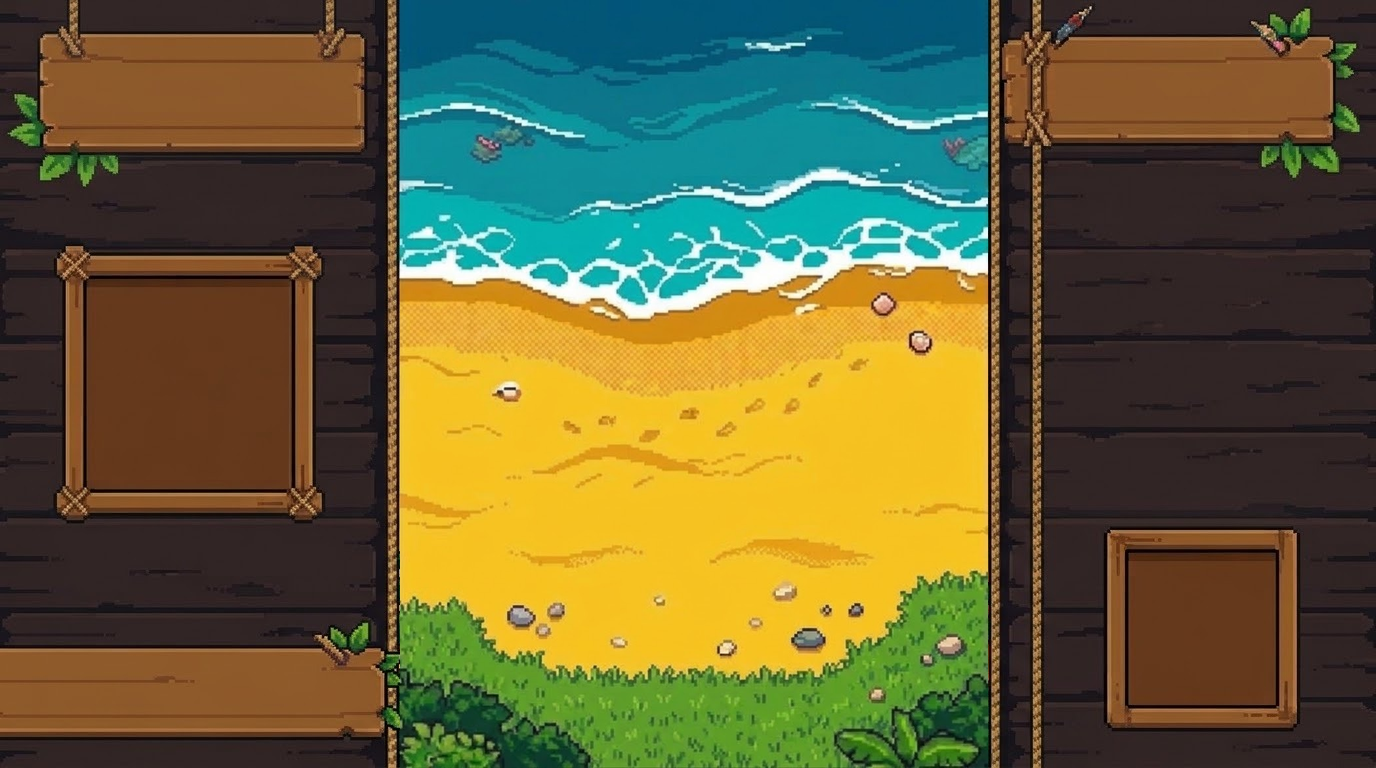
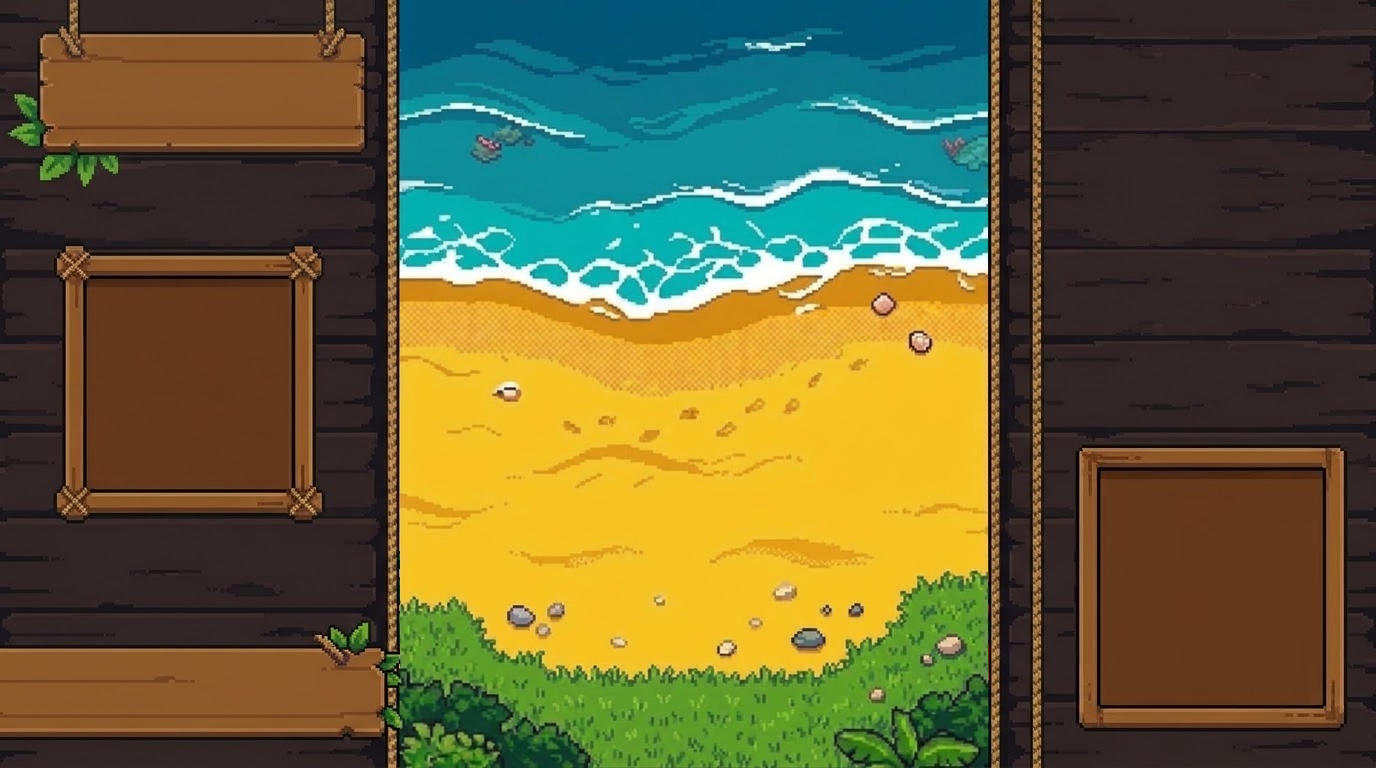
adicionando os upgrades (boosts)

Changed region(s): [[0.7812, 0.5625, 1.0, 0.9688], [0.7188, 0.0, 1.0, 0.25]]

diff --git a/main.c b/main.c
@@ -25,6 +25,19 @@
 #define ROSTO_W 204
 #define ROSTO_H 208
 
+//upgrades (ajuste aqui o balanceamento do jogo)
+#define VEL_MACACO_BASE 5.0f //velocidade inicial do macaco
+#define VEL_MACACO_NIVEL 0.8f //quanto cada nivel do upgrade soma na velocidade do macaco
+#define DARDOS_VEL_NIVEL 2.5f //quanto cada nivel do upgrade soma na velocidade do dardo
+#define DARDOS_ESPACO 22 //distancia (pixels) entre dardos disparados juntos
+#define ABATES_POR_UPGRADE 10 //baloes estourados para ganhar um upgrade
+
+//interior do segundo quadrado (moldura de baixo do painel direito)
+#define UPG_X 1100
+#define UPG_Y 500
+#define UPG_W 225
+#define UPG_H 240
+
 //telas, fiz em enum
 typedef enum {
     TELA_MENU,
@@ -33,6 +46,17 @@ typedef enum {
     TELA_VITORIA,
     TELA_PAUSE
 } Tela;
+
+//tipos de upgrade (UPG_TOTAL = quantidade de tipos, serve de tamanho para os vetores)
+typedef enum {
+    UPG_DARDO,
+    UPG_VEL_DARDO,
+    UPG_VEL_MOV,
+    UPG_TOTAL
+} Upgrade;
+
+static const int NIVEL_MAX[UPG_TOTAL] = { 2, 5, 5 }; //dardo: ate triplo (2 extras); velocidades: ate nivel 5
+static const char *NOME_UPG[UPG_TOTAL] = { "DARDOS", "VEL. TIRO", "VEL. MOVER" };
 
 typedef struct {
     float x, y;
@@ -47,6 +71,54 @@ typedef struct {
     bool atv;
 } Explosao;
 
+//sorteia um upgrade entre os que ainda nao chegaram no nivel maximo
+//devolve -1 se todos ja estao no maximo
+static int SortearUpgrade(const int nivel[UPG_TOTAL]) {
+    int disponiveis[UPG_TOTAL];
+    int n = 0;
+    for (int i = 0; i < UPG_TOTAL; i++) {
+        if (nivel[i] < NIVEL_MAX[i]) disponiveis[n++] = i;
+    }
+    if (n == 0) return -1;
+    return disponiveis[GetRandomValue(0, n - 1)];
+}
+
+//texto do aviso que aparece na tela quando ganha o upgrade
+static const char *TextoUpgrade(int tipo, int nivelNovo) {
+    if (tipo == UPG_DARDO) return (nivelNovo == 1) ? "DARDO DUPLO!" : "DARDO TRIPLO!";
+    if (tipo == UPG_VEL_DARDO) return "DARDO MAIS RAPIDO!";
+    return "MACACO MAIS RAPIDO!";
+}
+
+//desenha o painel de upgrades dentro do segundo quadrado
+static void DesenharPainelUpgrades(const int nivel[UPG_TOTAL], int abates) {
+    int x0 = UPG_X + 8;       //margem interna
+    int larg = UPG_W - 16;    //largura util
+    int y0 = UPG_Y + 6;
+
+    const char *titulo = "UPGRADES";
+    DrawText(titulo, UPG_X + (UPG_W - MeasureText(titulo, 14)) / 2, y0, 14, GOLD);
+    y0 += 22;
+
+    for (int i = 0; i < UPG_TOTAL; i++) {
+        //no dardo mostra a quantidade atual (x1, x2, x3); nos outros, so o nome
+        const char *rotulo = (i == UPG_DARDO) ? TextFormat("DARDOS x%d", 1 + nivel[i]) : NOME_UPG[i];
+        DrawText(rotulo, x0, y0, 14, WHITE);
+
+        //um quadradinho por nivel: dourado = ja ganhou, apagado = falta ganhar
+        for (int k = 0; k < NIVEL_MAX[i]; k++) {
+            Color cor = (k < nivel[i]) ? GOLD : Fade(WHITE, 0.2f);
+            DrawRectangle(x0 + k * 12, y0 + 17, 8, 8, cor);
+        }
+        y0 += 32;
+    }
+
+    //barra de progresso ate o proximo upgrade
+    DrawRectangle(x0, y0 + 4, larg, 10, Fade(BLACK, 0.5f));
+    DrawRectangle(x0, y0 + 4, larg * abates / ABATES_POR_UPGRADE, 10, SKYBLUE);
+    DrawRectangleLines(x0, y0 + 4, larg, 10, WHITE);
+}
+
 int main (void){
     InitWindow(LARGURA, ALTURA, "Ape Raiders"); //cria a janela inicial
     SetTargetFPS(60);
@@ -56,7 +128,7 @@ int main (void){
     Texture2D inicial = LoadTexture("inicial.png");
     Texture2D fundo = LoadTexture("fundo.png");
     Texture2D derrota = LoadTexture("derrota.png");
-    Texture2D rostos = LoadTexture("macaco_rostos.png");
+    Texture2D rostos = LoadTexture("macaco_rostos.png"); //3 rostos de 204x208 lado a lado
 
     Texture2D coracao = LoadTexture("coracao.png");
     SetTextureFilter(coracao, TEXTURE_FILTER_TRILINEAR);
@@ -73,11 +145,14 @@ int main (void){
 
     float x = AREA_X + (AREA_LARGURA - TAM_QUADRO) / 2;
     float y = ALTURA - TAM_QUADRO - 10;
-    float velocidade = 5;
     int quadro = 0;
     float tempo = 0;
     float duracao = 1.0f / 12.0f;
     int vida = VIDAS_MAX;
+    int nivel[UPG_TOTAL] = {0}; //nivel atual de cada upgrade (acumulativo)
+    int abates = 0; //baloes estourados desde o ultimo upgrade
+    float avisoTempo = 0; //tempo que o aviso de upgrade ainda fica na tela
+    const char *avisoTexto = "";
 
     //limites do spawn dos baloes pra eles n sairem da tela do jogo
     IniciarBalao((Rectangle){ AREA_X, 0, AREA_LARGURA, ALTURA }, y);
@@ -93,14 +168,6 @@ int main (void){
     }
 
 while (!WindowShouldClose()) {
-
-    //animação do macaco
-    tempo += GetFrameTime();
-    if (tempo >= duracao) {
-        tempo -= duracao;
-        quadro = (quadro + 1) % NUM_QUADROS;
-    }
-
     if (tela == TELA_MENU) {
         if (IsKeyPressed(KEY_ENTER)) {
             x = AREA_X + (AREA_LARGURA - TAM_QUADRO) / 2; 
@@ -109,12 +176,20 @@ while (!WindowShouldClose()) {
             ReiniciarBaloes(); //limpa os baloes da partida passada
             for (int i = 0; i < DARDOS_MAX; i++) dardos[i].atv = false; //limpa os dardos
             for (int e = 0; e < EXPLOSOES_MAX; e++) explosoes[e].atv = false; //limpa as explosoes
+            for (int u = 0; u < UPG_TOTAL; u++) nivel[u] = 0; //zera os upgrades da partida passada
+            abates = 0;
+            avisoTempo = 0;
             recarga = 0;
             tela = TELA_JOGO;
         }
     }
 
     else if (tela == TELA_JOGO) {
+        //valores que dependem dos upgrades (recalculados todo frame)
+        float velocidade = VEL_MACACO_BASE + nivel[UPG_VEL_MOV] * VEL_MACACO_NIVEL;
+        float velDardo = DARDOS_VEL + nivel[UPG_VEL_DARDO] * DARDOS_VEL_NIVEL;
+        int qtdDardos = 1 + nivel[UPG_DARDO]; //1 = simples, 2 = duplo, 3 = triplo
+
         //movimentação do macaco
         if (IsKeyDown(KEY_A) || IsKeyDown(KEY_LEFT)) {if (x > AREA_X) x -= velocidade;}
         if (IsKeyDown(KEY_D) || IsKeyDown(KEY_RIGHT)) {if (x < AREA_X + AREA_LARGURA - TAM_QUADRO) x+= velocidade;}
@@ -123,21 +198,24 @@ while (!WindowShouldClose()) {
         //tiro automatico
         recarga-=GetFrameTime();
         if(recarga <=0){
-            for(int i=0;i<DARDOS_MAX;i++){
+            int criados = 0;
+            for(int i=0;i<DARDOS_MAX && criados < qtdDardos;i++){
                 if(!dardos[i].atv){
-                    dardos[i].x = x + (TAM_QUADRO - textDardo.width) / 2.0f;
+                    //espalha os dardos lado a lado, centralizados no macaco
+                    float deslocamento = (criados - (qtdDardos - 1) / 2.0f) * DARDOS_ESPACO;
+                    dardos[i].x = x + (TAM_QUADRO - textDardo.width) / 2.0f + deslocamento;
                     dardos[i].y = y - textDardo.height / 2.0f;
                     dardos[i].atv = true;
-                    recarga = DARDOS_RECARGA;
-                    break;
+                    criados++;
                 }
             }
+            if (criados > 0) recarga = DARDOS_RECARGA;
         }
 
         //move os dardos, checa se acertou algum balao
         for (int i = 0; i < DARDOS_MAX; i++) {
             if (!dardos[i].atv) continue;
-            dardos[i].y -= DARDOS_VEL;
+            dardos[i].y -= velDardo;
 
             if (dardos[i].y + textDardo.height < 0) { //dardo saiu por cima da tela
                 dardos[i].atv = false;
@@ -165,6 +243,18 @@ while (!WindowShouldClose()) {
                             break;
                         }
                     }
+
+                    //conta o balao estourado; ao completar, sorteia um upgrade
+                    abates++;
+                    if (abates >= ABATES_POR_UPGRADE) {
+                        abates = 0;
+                        int sorteado = SortearUpgrade(nivel);
+                        if (sorteado >= 0) {
+                            nivel[sorteado]++;
+                            avisoTexto = TextoUpgrade(sorteado, nivel[sorteado]);
+                            avisoTempo = 2.0f;
+                        }
+                    }
                 }
             }
         }
@@ -179,6 +269,9 @@ while (!WindowShouldClose()) {
                 if (explosoes[e].quadro >= EXPLOSAO_QUADROS) explosoes[e].atv = false;
             }
         }
+
+        //o aviso de upgrade some depois de 2 segundos
+        if (avisoTempo > 0) avisoTempo -= GetFrameTime();
 
         if (IsKeyPressed(KEY_H)) {
             vida--;
@@ -205,6 +298,16 @@ while (!WindowShouldClose()) {
         //aumentar a pontuação para teste (tirar futuramente)
         if (IsKeyPressed(KEY_K)) {
             pontuacao += 10;
+        }
+
+        //teste de upgrade (tirar futuramente): U sorteia um upgrade na hora
+        if (IsKeyPressed(KEY_U)) {
+            int sorteado = SortearUpgrade(nivel);
+            if (sorteado >= 0) {
+                nivel[sorteado]++;
+                avisoTexto = TextoUpgrade(sorteado, nivel[sorteado]);
+                avisoTempo = 2.0f;
+            }
         }
 
         //teste de vitoria (tirar futuramente)
@@ -289,6 +392,18 @@ while (!WindowShouldClose()) {
             DrawText(TextFormat("SCORE: %04d", pontuacao), 80, 70, 30, WHITE);
             DrawText(TextFormat("HI-SCORE: %04d", highScore), 80, 100, 30, GOLD);
             //apertar M manda para o menu.
+
+            //segundo quadrado: lista de upgrades e progresso
+            DesenharPainelUpgrades(nivel, abates);
+
+            //aviso do upgrade ganho, no alto da praia (some suavemente no ultimo meio segundo)
+            if (avisoTempo > 0) {
+                float alfa = fminf(1.0f, avisoTempo / 0.5f);
+                int larguraAviso = MeasureText(avisoTexto, 28);
+                int ax = AREA_X + (AREA_LARGURA - larguraAviso) / 2;
+                DrawText(avisoTexto, ax + 2, 62, 28, Fade(BLACK, alfa)); //sombra
+                DrawText(avisoTexto, ax, 60, 28, Fade(GOLD, alfa));
+            }
 
             if (tela == TELA_PAUSE) {
                 DrawRectangle(0,0, LARGURA, ALTURA, Fade(BLACK, 0.6f));
